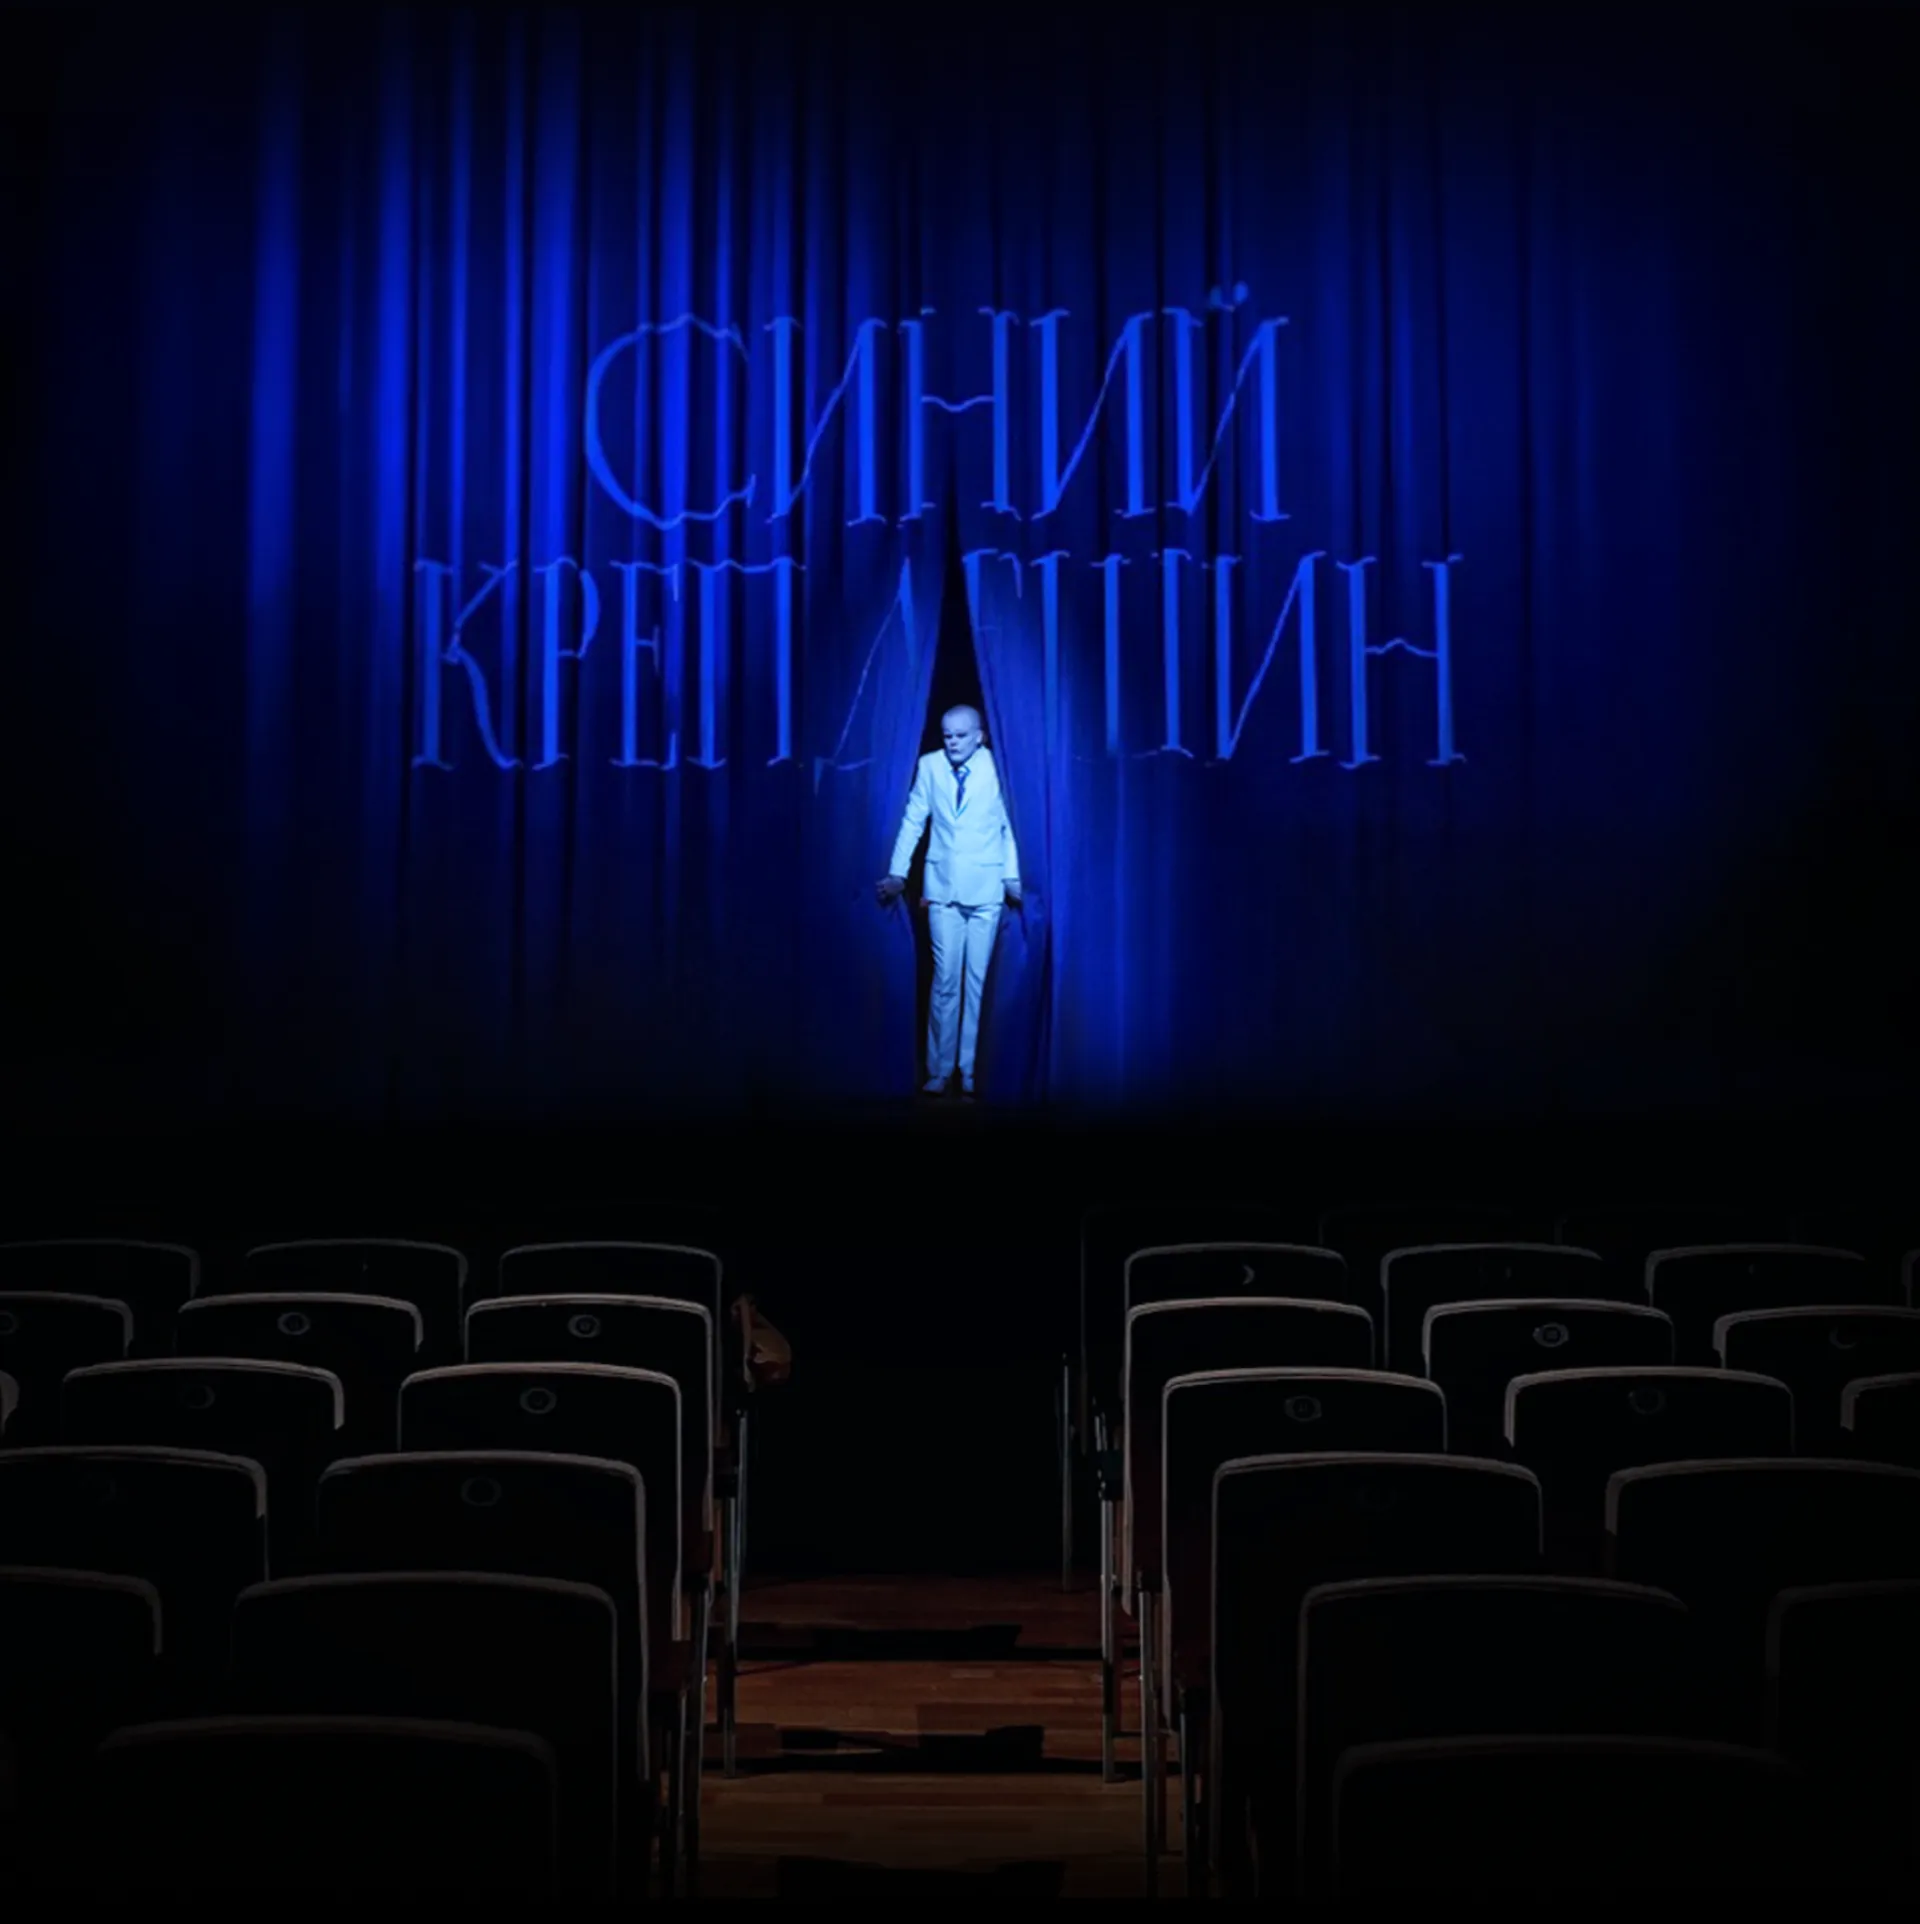
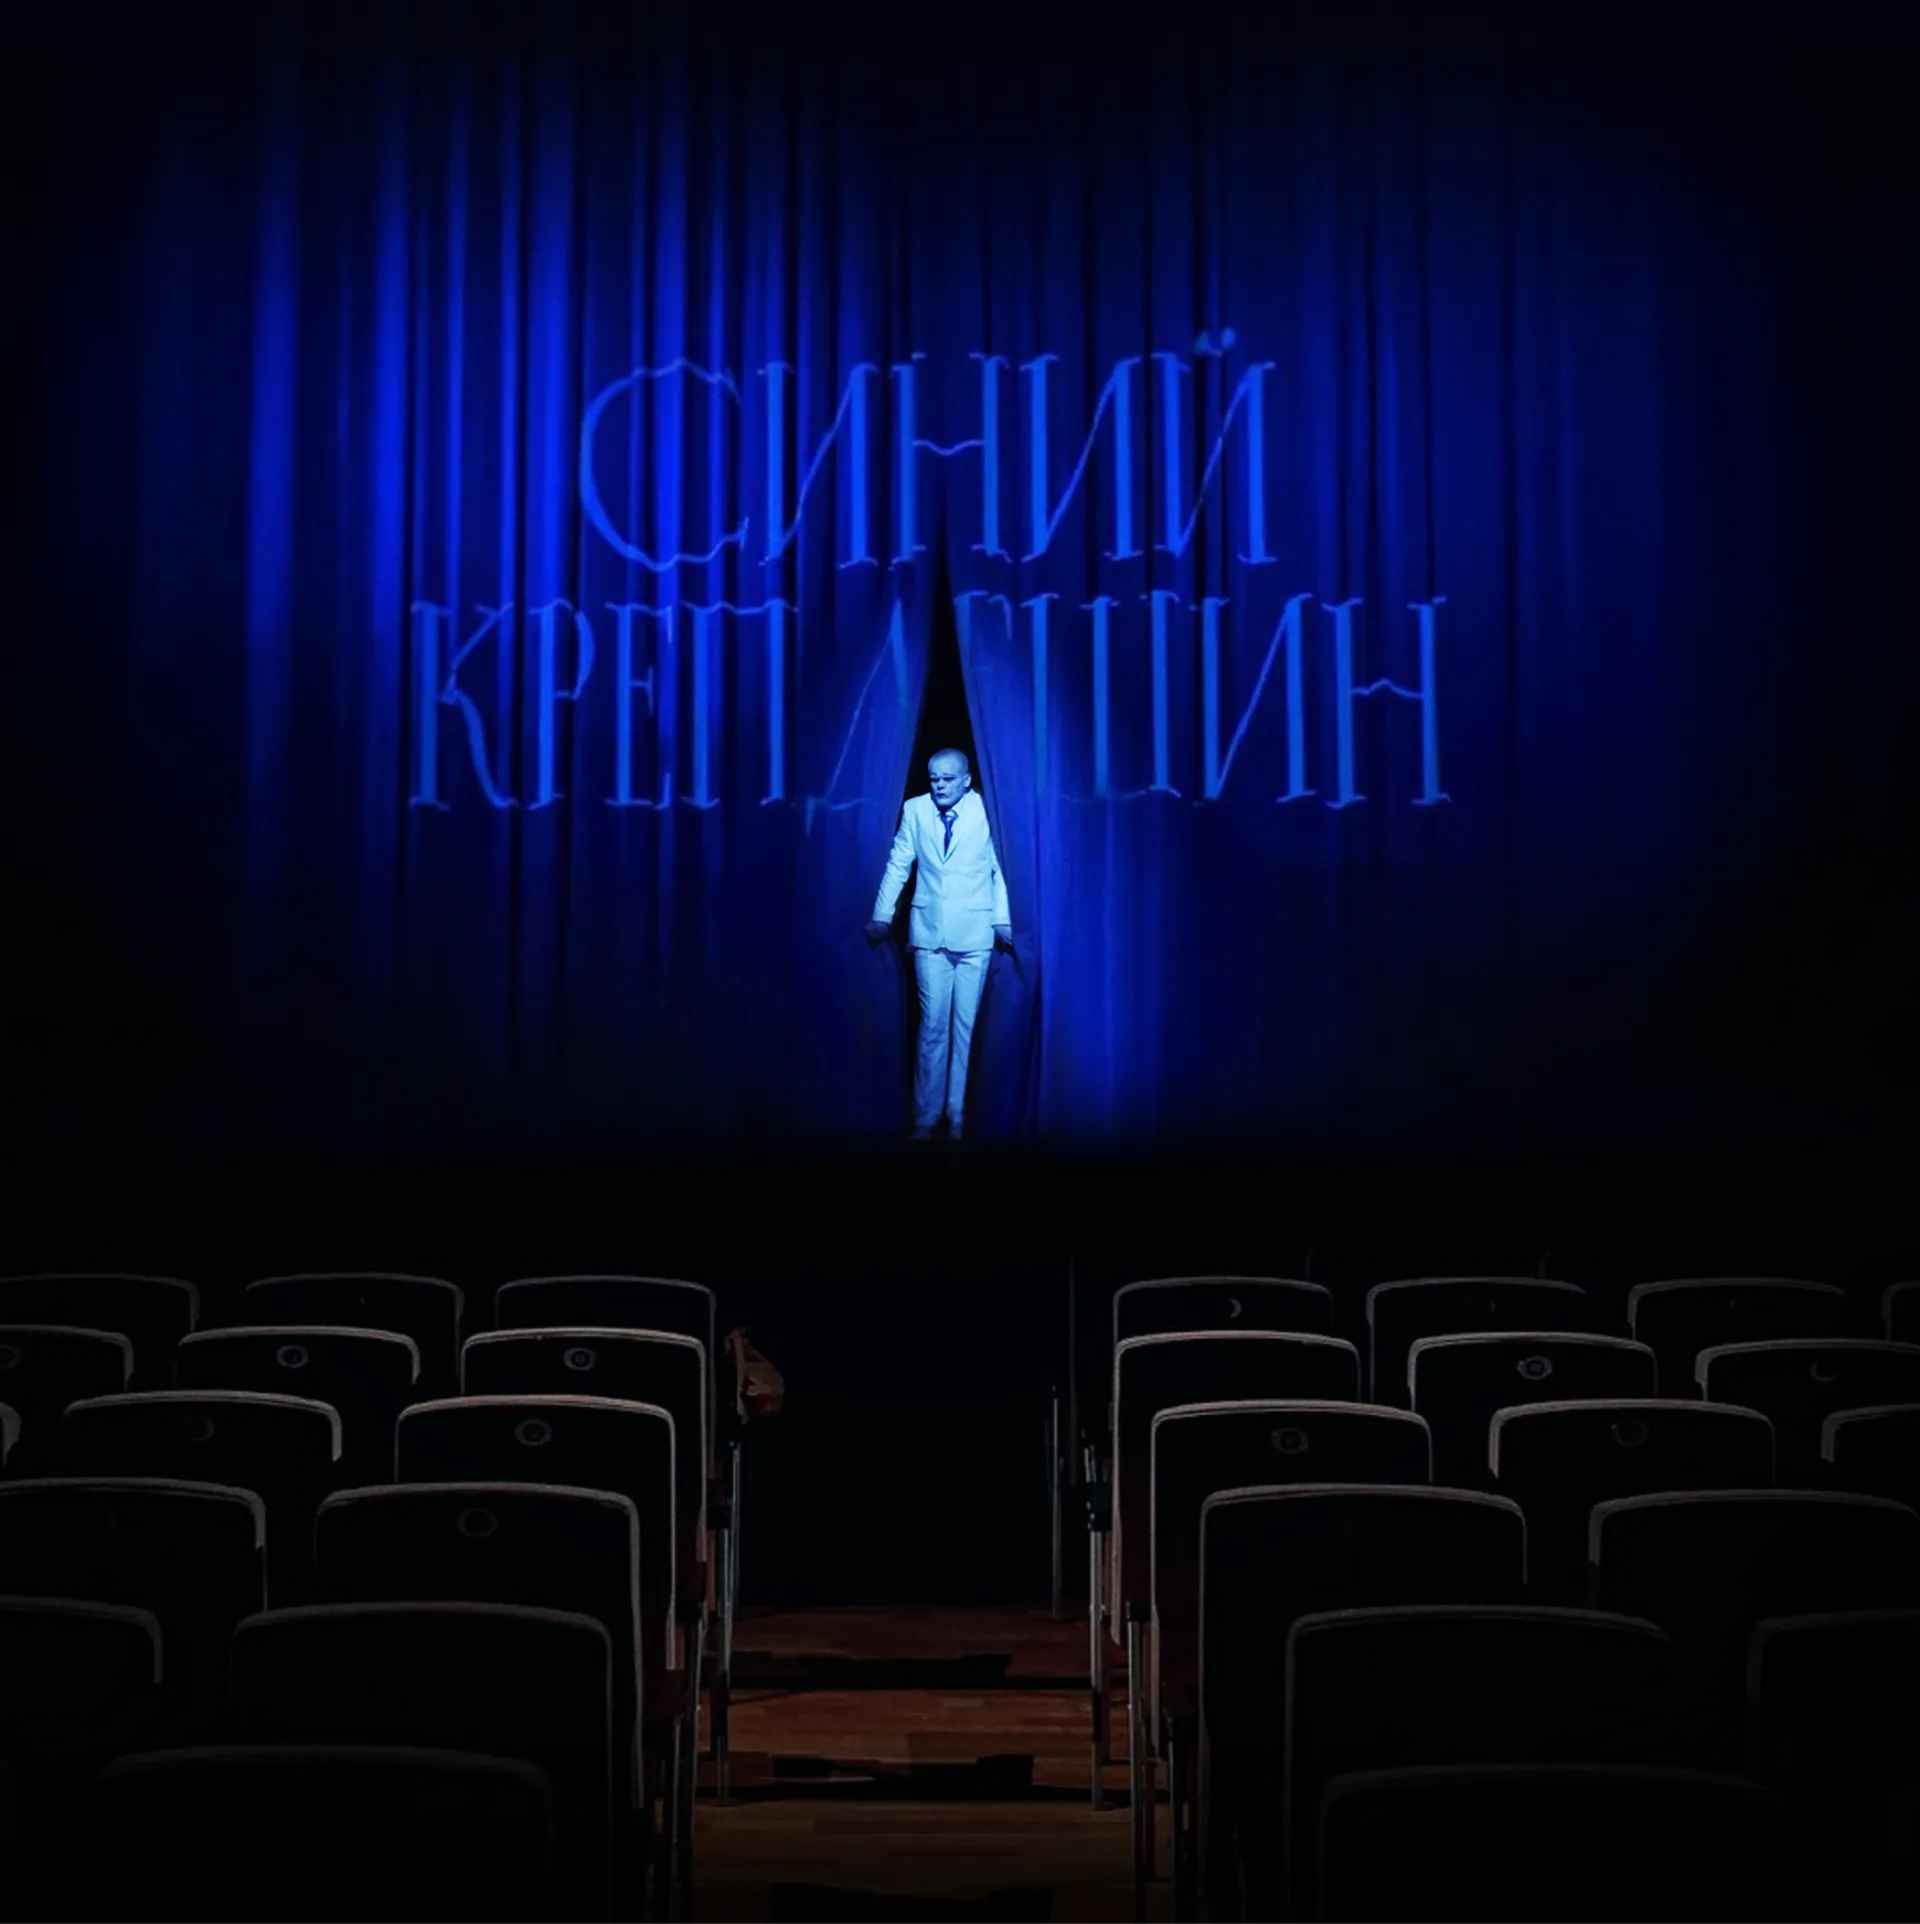
fix media

diff --git a/src/Components/Contacts/Contacts.tsx b/src/Components/Contacts/Contacts.tsx
@@ -4,7 +4,7 @@ import {Image} from '../Image/Image.tsx'
 import {useIsMobile} from '../../utils/useIsMobile.ts'
 import CopyIcon from '../../assets/Icons/Copy.svg'
 import TelegramIcon from '../../assets/Icons/TelegramLogo.svg'
-import PhoneIcon from '../../assets/Icons/Phone.svg'
+import MailIcon from '../../assets/Icons/Mail.svg'
 
 import styles from './styles.module.scss'
 
@@ -39,7 +39,6 @@ export const Contacts = () => {
               ${imageBasePath}/Contacts-1440.webp 1440w,
               ${imageBasePath}/Contacts-1920.webp 1920w
             `}
-            Sizes='50wv'
             className={styles.contactsAvatarImage}
           />
         </div>
@@ -49,7 +48,7 @@ export const Contacts = () => {
         className={classNames(styles.contactItem, styles.first)}
         onClick={onClickEmail}
       >
-        <CopyIcon />
+        <MailIcon />
         <div className={styles.contactText}>
           hamhamkham@gmail.com
         </div>
@@ -81,7 +80,7 @@ export const Contacts = () => {
           styles.phone,
         )}
       >
-        <PhoneIcon />
+        <CopyIcon />
         <div className={styles.contactText}>
           +79500148784
         </div>

diff --git a/src/Components/Contacts/styles.module.scss b/src/Components/Contacts/styles.module.scss
@@ -48,9 +48,10 @@
   font-size: 24px;
   display: flex;
   justify-content: center;
+  align-items: center;
   border-bottom: 1px solid #E5E5E5;
   padding: 20px 0;
-  gap: 6px;
+  gap: 10px;
   
   user-select: none;
   cursor: pointer;
